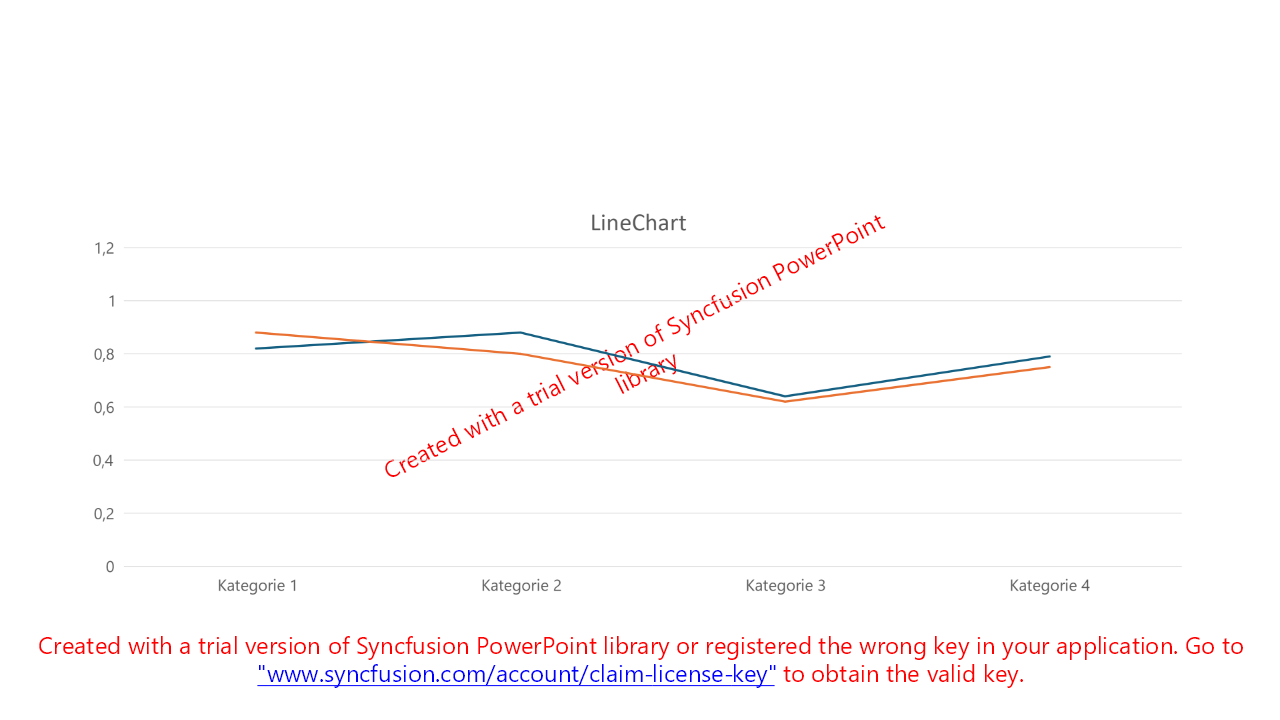
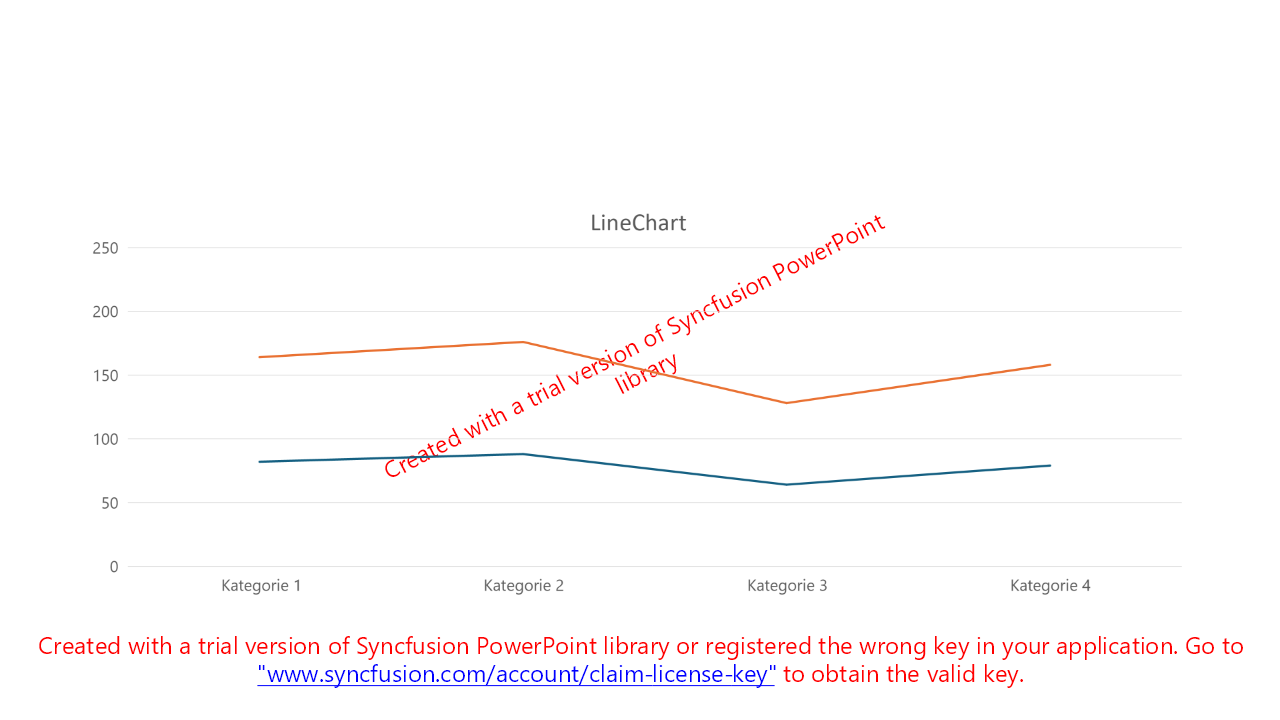
Updated verify pictures

diff --git a/TestSlideAssembler/VerifyTests.cs b/TestSlideAssembler/VerifyTests.cs
@@ -68,10 +68,9 @@ namespace TestSlideAssembler
                 };
 
                 //==================================================================================================================================================================
-                Series[] seriesList = [new Series("Datenreihe 1", values), new Series("Datenreihe 2", new [] {0.88d, 0.8d, 0.62d, 0.75d})];
+                Series[] seriesList = [new Series("Datenreihe 1", values), new Series("Datenreihe 2", values.Select(v=> v*2).ToArray())];
                 SlideAssembler.SlideAssembler.Load(template)
                             .Apply(new FillPlaceholders(data)).Apply(new FillChart("MesswertDiagramm", new Series("Werte", values)))
-                            .Apply(new FillPlaceholders(data))
                             .Apply(new SetWidth("MittelwertRechteck", (Decimal)data.Mittelwert))
                             .Apply(new SetWidth("MaximumRechteck", (Decimal)data.Maximum))
                             .Apply(new SetWidth("MinimumRechteck", (Decimal)data.Minimum))
